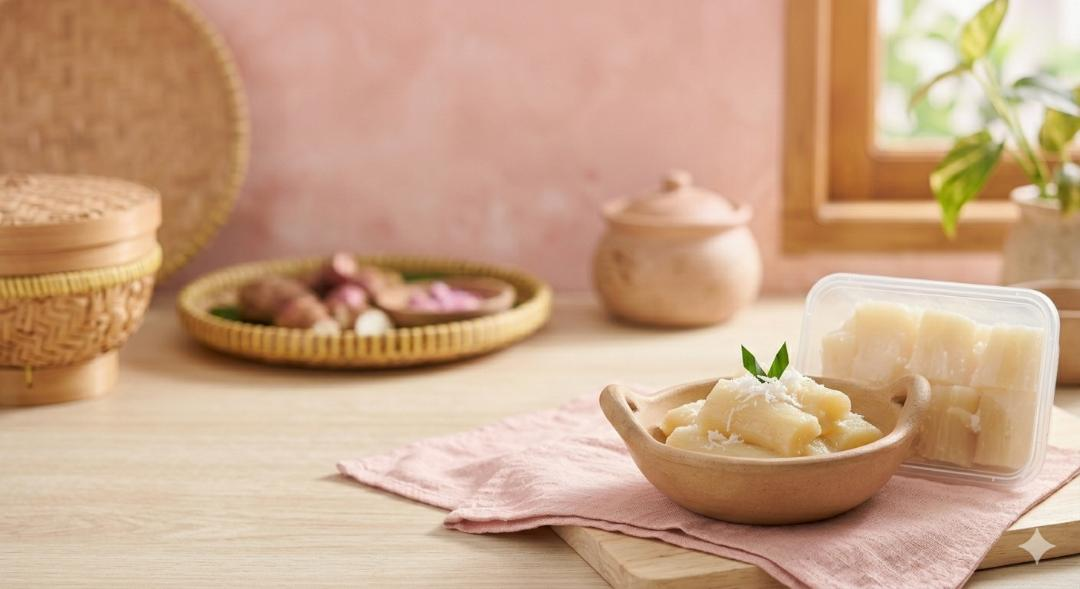
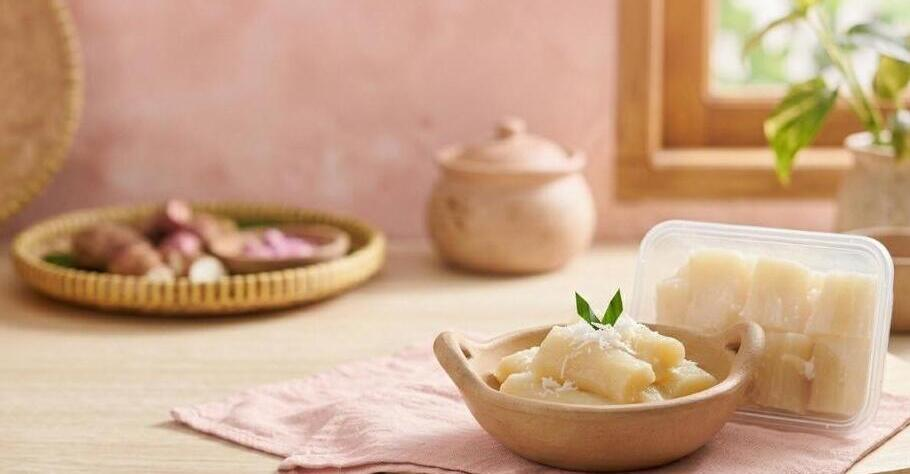
Add files via upload

diff --git a/index.html b/index.html
@@ -18,8 +18,8 @@
         <section class="HOME" id="HOME">
             <div class="descriptionHOME">
                 <h1>Welcome!</h1>
-                <h3>Biotechnology Tape</h3>
-                <p>Tape adalah makanan tradisional asal Indonesia yang populer di kalangan masyarakat. Tape dihasilkan melalui proses fermentasi bahan pangan berkarbohidrat atau sumber pati yang juga melibatkan ragi dalam proses pembuatannya. Bahan pangan sumber pati yang umum digunakan dalam pembuatan tape antara lain singkong dan beras ketan yang masing-masing memiliki karakteristik berbeda. Produk tersebut memiliki karakteristik khas berupa rasa manis dengan sedikit rasa asam segar, tekstur lunak, lembut, dan sedikit berair, serta aroma alkohol ringan.</p>
+                <h3>Product Biotechnology Tape</h3>
+                <p>Bioteknologi konvensional merupakan salah satu cabang ilmu bioteknologi yang telah diterapkan sejak lama oleh masyarakat luas karena prosesnya yang sederhana. Sebagian besar bioteknologi konvensional bergantung pada metode fermentasi sebagai metode yang paling umum. Metode tersebut mengandalkan jasa mikroorganisme untuk menghasilkan produk baru dengan karakteristik tertentu tanpa melibatkan manipulasi organisme atau rekayasa dalam proses pembuatannya. Metode yang digunakan umumnya dipelajari secara turun-temurun dan berkembang melalui pengalaman masyarakat. Meskipun demikian, ilmu bioteknologi konvensional telah menjadi dasar perkembangan ilmu bioteknologi modern sebagai tahapan awal dalam pemanfaatan organisme.</p>
                 <a href="#ABOUT">Learn More!</a>
             </div>
         </section>
@@ -27,8 +27,7 @@
             <div class="containerABOUT">
                 <img src="images.png">
                 <h2>ABOUT MY PROJECT!</h2>
-                <p>Fermentasi merupakan salah satu proses dalam bioteknologi konvensional yang memanfaatkan mikroorganisme tertentu dalam mengubah bahan baku menjadi produk dengan karakteristik tertentu. Proses tersebut menghasilkan berbagai perubahan terhadap bahan yang digunakan, mulai dari perubahan fisik hingga kandungannya. Salah satu produk bioteknologi konvensional hasil proses fermentasi yang telah banyak dikonsumsi masyarakat Indonesia adalah tape. Tape umumnya dibuat dari fermentasi singkong atau beras ketan karena kandungan karbohidratnya yang tinggi.
-                Selain singkong, kentang juga merupakan bahan pangan dengan kandungan karbohidrat cukup tinggi sehingga dapat berpotensi dalam proses fermentasi. Kentang memiliki kandungan karbohidrat yang dapat dimanfaatkan oleh mikroorganisme dalam proses fermentasi. Namun, pemanfaatan kentang sebagai bahan baku pembuatan tape masih sangat jarang dilakukan. Hal ini menyebabkan diperlukannya penelitian lebih lanjut untuk mengetahui hasil fermentasi tape berbahan baku kentang.</p>
+                <p>Tape adalah makanan tradisional asal Indonesia yang populer di kalangan masyarakat. Tape dihasilkan melalui fermentasi bahan pangan berkarbohidrat atau sumber pati yang juga melibatkan ragi dalam proses pembuatannya. Bahan pangan sumber pati yang umum digunakan dalam pembuatan tape antara lain singkong dan beras ketan yang masing-masing memiliki karakteristik berbeda. Produk tersebut memiliki karakteristik khas berupa rasa manis dengan sedikit rasa asam segar, aroma alkohol ringan, serta tekstur lunak, lembut, dan sedikit berair. Selain singkong, kentang juga merupakan bahan pangan dengan kandungan karbohidrat cukup tinggi sehingga dapat berpotensi dalam proses fermentasi. Berdasarkan penelitian yang dilakukan dengan membandingkan tape berbahan baku singkong dengan tape berbahan baku kentang dapat ditarik kesimpulan bahwa kentang berpotensi untuk menjadi bahan baku alternatif dalam pembuatan tape. Namun, dibutuhkan penelitian lebih lanjut untuk meneliti aspek lainnya demi penyempurnaan rasa, aroma, dan tekstur tape kentang.</p>
             </div>
         </section>
         <section class="PROFILE" id="PROFILE">
@@ -41,8 +40,9 @@
                     <p>9C/10</p>
                 </div>
                 <div class="medsos">
-                    <a href="#"><span class="fa fa-instagram"></span></a>
-                    <a href="#"><span class="fa fa-google"></span></a>
+                    <a href="https://www.instagram.com/vyviuww._"><span class="fa fa-instagram"></span></a>
+                    <a href="https://wa.me/6287720001400"><span class="fa fa-whatsapp"></span></a>
+                    <a href="https://www.roblox.com/id/users/8918916039/profile"><span class="fa fa-gamepad"></span></a>
                 </div>
             </div>
         </section>

diff --git a/styles.css b/styles.css
@@ -1,39 +1,40 @@
 header{
-    color:maroon;
+    color: maroon;
     text-align: center;
-    background-color:pink;
+    background-color: pink;
     padding: 10px;
     border-radius: 5px 5px 5px 5px;
     box-shadow: 0px 0px 15px black;
-    position:fixed;
+    position: fixed;
     width: 100%;
 }
 nav a{
     padding: 5px 15px;
-    color:maroon;
+    color: maroon;
     text-decoration: none;
     font-size: 17px;
 }
 nav a:hover{
-    color:white;
-    background-color:maroon;
+    color: white;
+    background-color: maroon;
     border-radius: 5px 5px 5px 5px;
     box-shadow: 0px 0px 15px black;
     transition: 0.3s;
 }
 .HOME{
     background-image: url(background.jpg);
-    height: 700px;
+    height: 615px;
     background-size: cover;
     padding-top: 25px;
+    text-align: justify;
     h1{
-        color:maroon;
+        color: maroon;
     }
     h3{
-        color:maroon;
+        color: maroon;
     }
     p{
-        color:white;
+        color: white;
     }
 }
 .descriptionHOME{
@@ -55,7 +56,7 @@ nav a:hover{
     transition: 0.3s;
 }
 .ABOUT{
-    height: 700px;
+    height: 550px;
     background: radial-gradient(circle,rgba(255, 102, 128, 1) 0%, rgba(255, 192, 203, 1) 100%, rgba(255, 255, 255, 1) 100%);
     color:maroon;
     text-align: center;
@@ -63,7 +64,7 @@ nav a:hover{
 .containerABOUT{
     background-color:pink;
     border-radius: 10px 10px 10px 10px;
-    height: 93%;
+    height: 85%;
     width: 50%;
     padding-top: 50px;
     padding: 25px;
@@ -74,9 +75,10 @@ nav a:hover{
 }
 .containerABOUT img{
     height: 200px;
+    border-radius: 5px 5px 5px 5px;
 }
 .PROFILE{
-    height: 700px;
+    height: 600px;
     text-align: center;
     background: radial-gradient(circle,rgba(255, 102, 128, 1) 0%, rgba(255, 192, 203, 1) 100%, rgba(255, 255, 255, 1) 100%);
 }
@@ -91,15 +93,11 @@ nav a:hover{
     width: 100%;
 }
 .medsos{
-    left: 0;
-    bottom: 0;
-    width: 100%;
     text-align: center;
     height: 40px;
     padding-top: 5px;
 }
 .medsos a{
-    text-decoration: none;
     padding: 10px 10px;
     font-size: 25px;
 }
